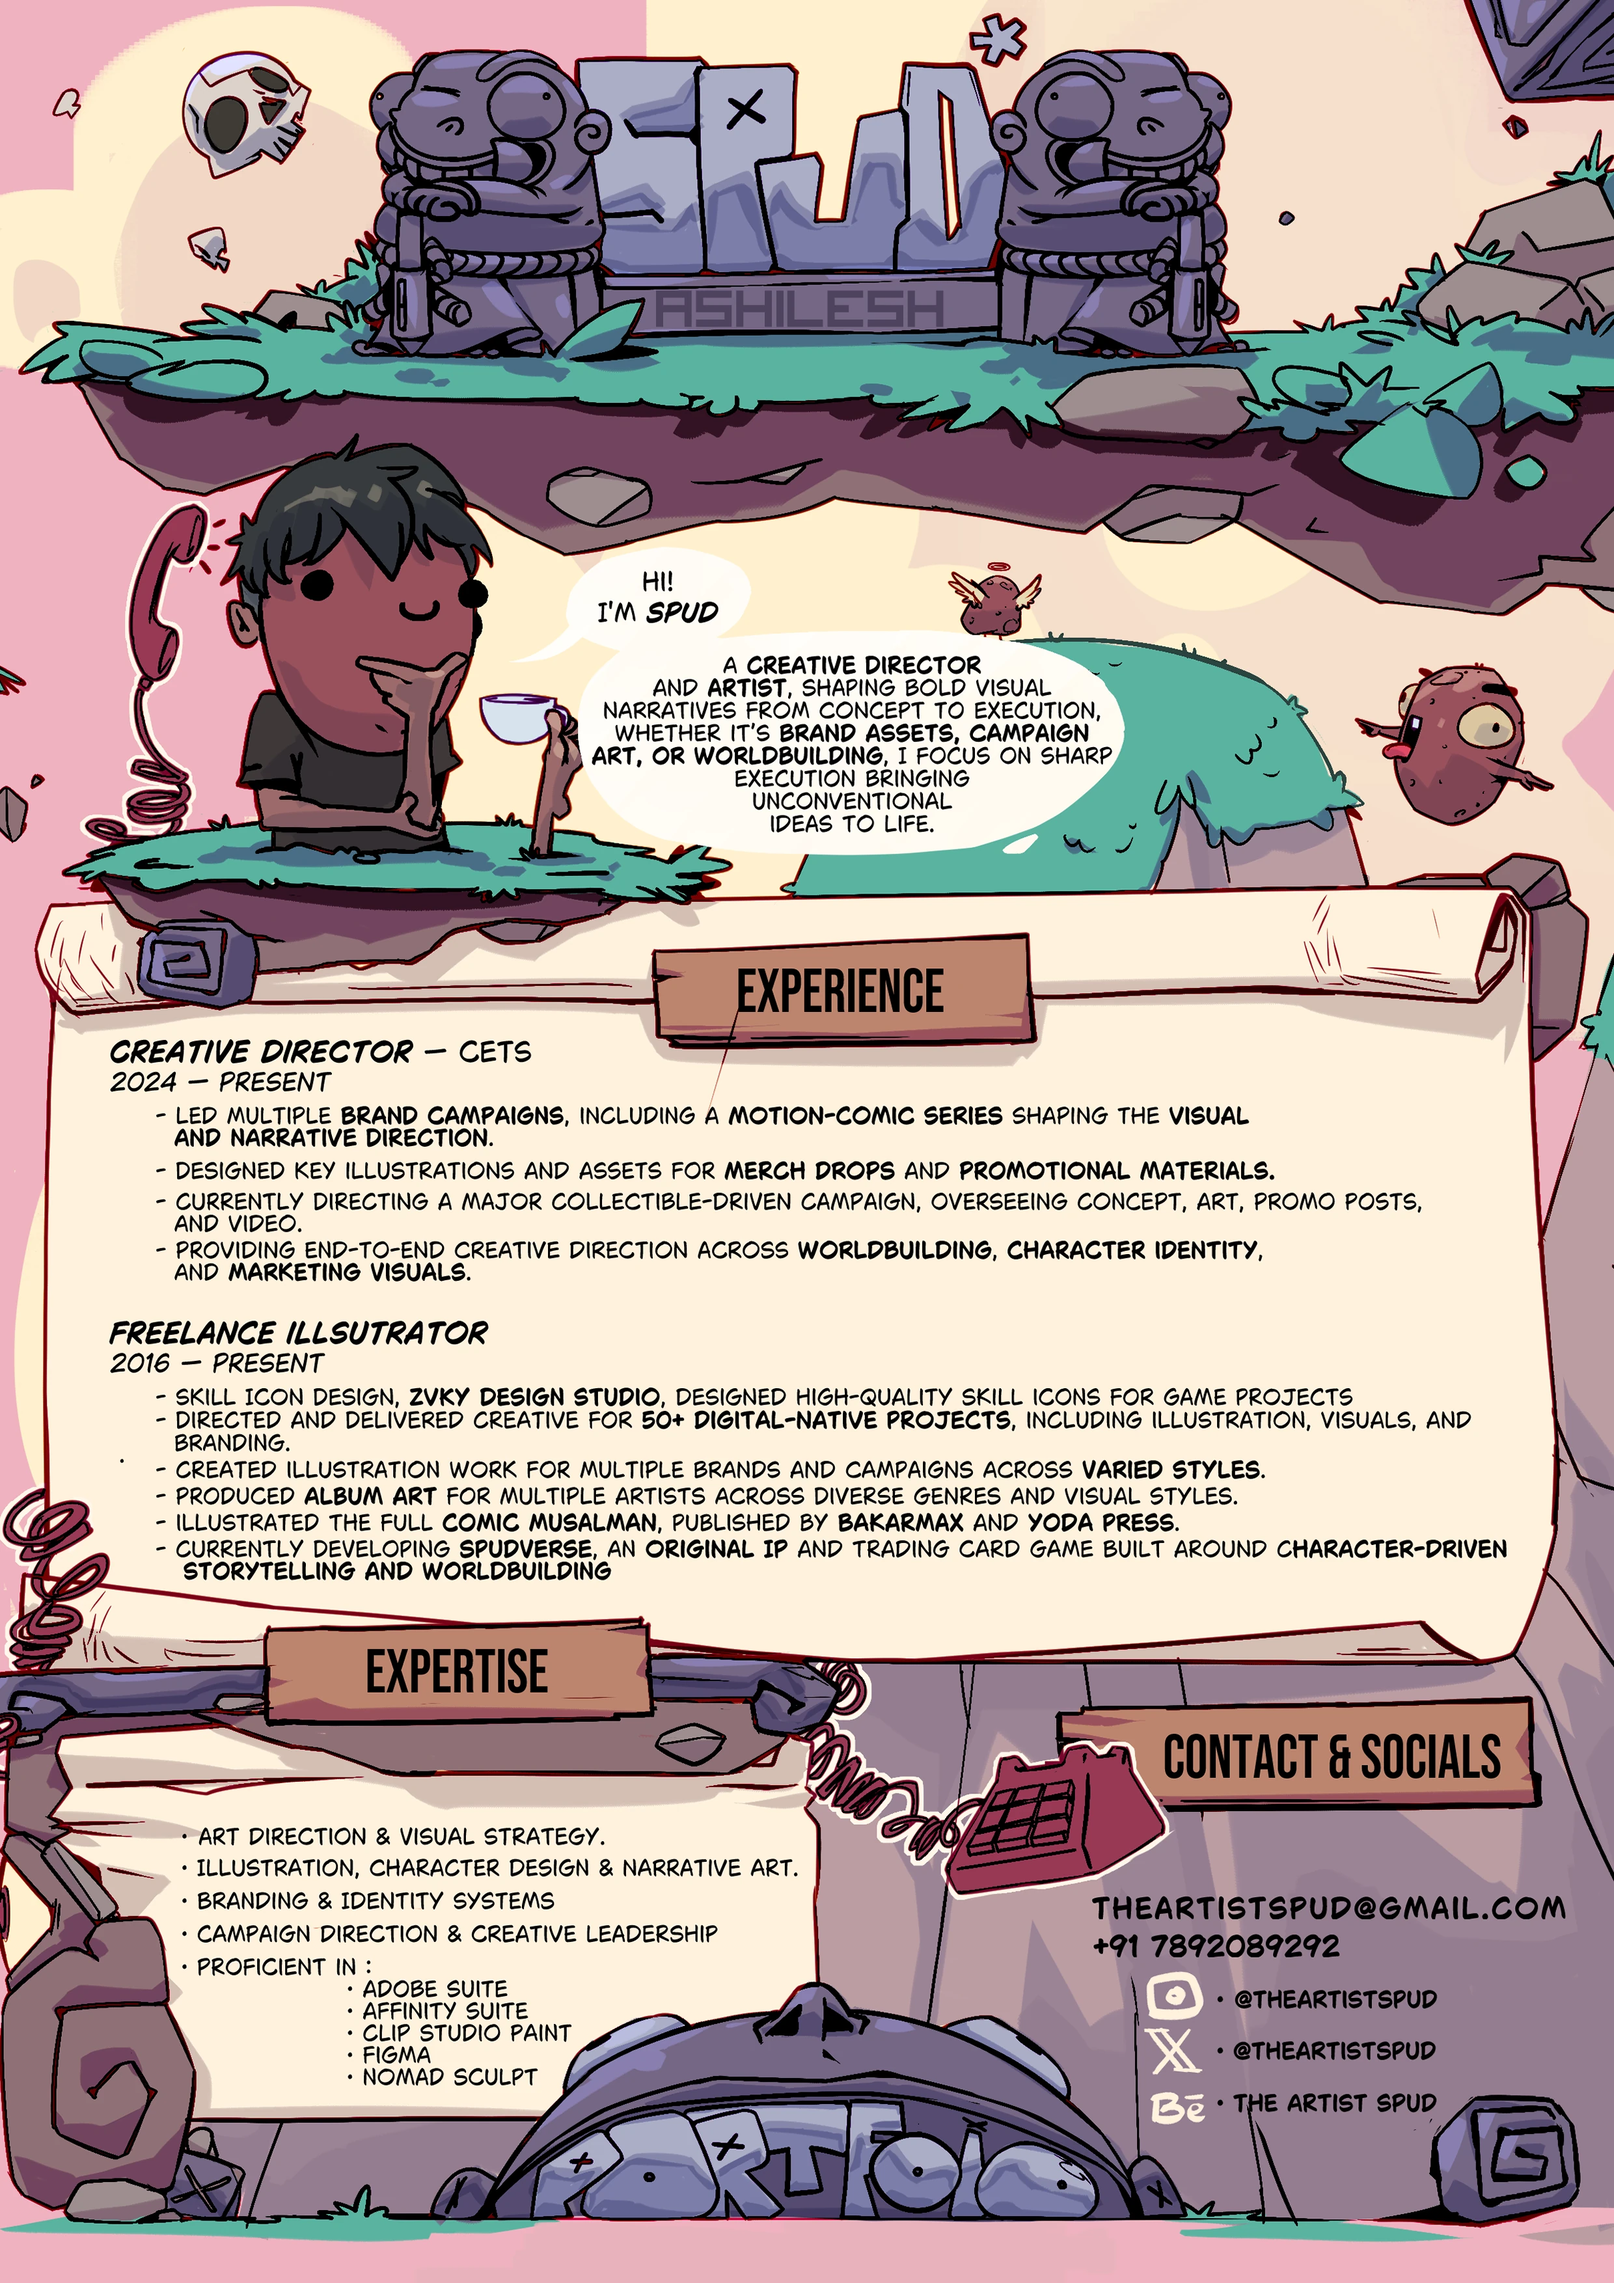
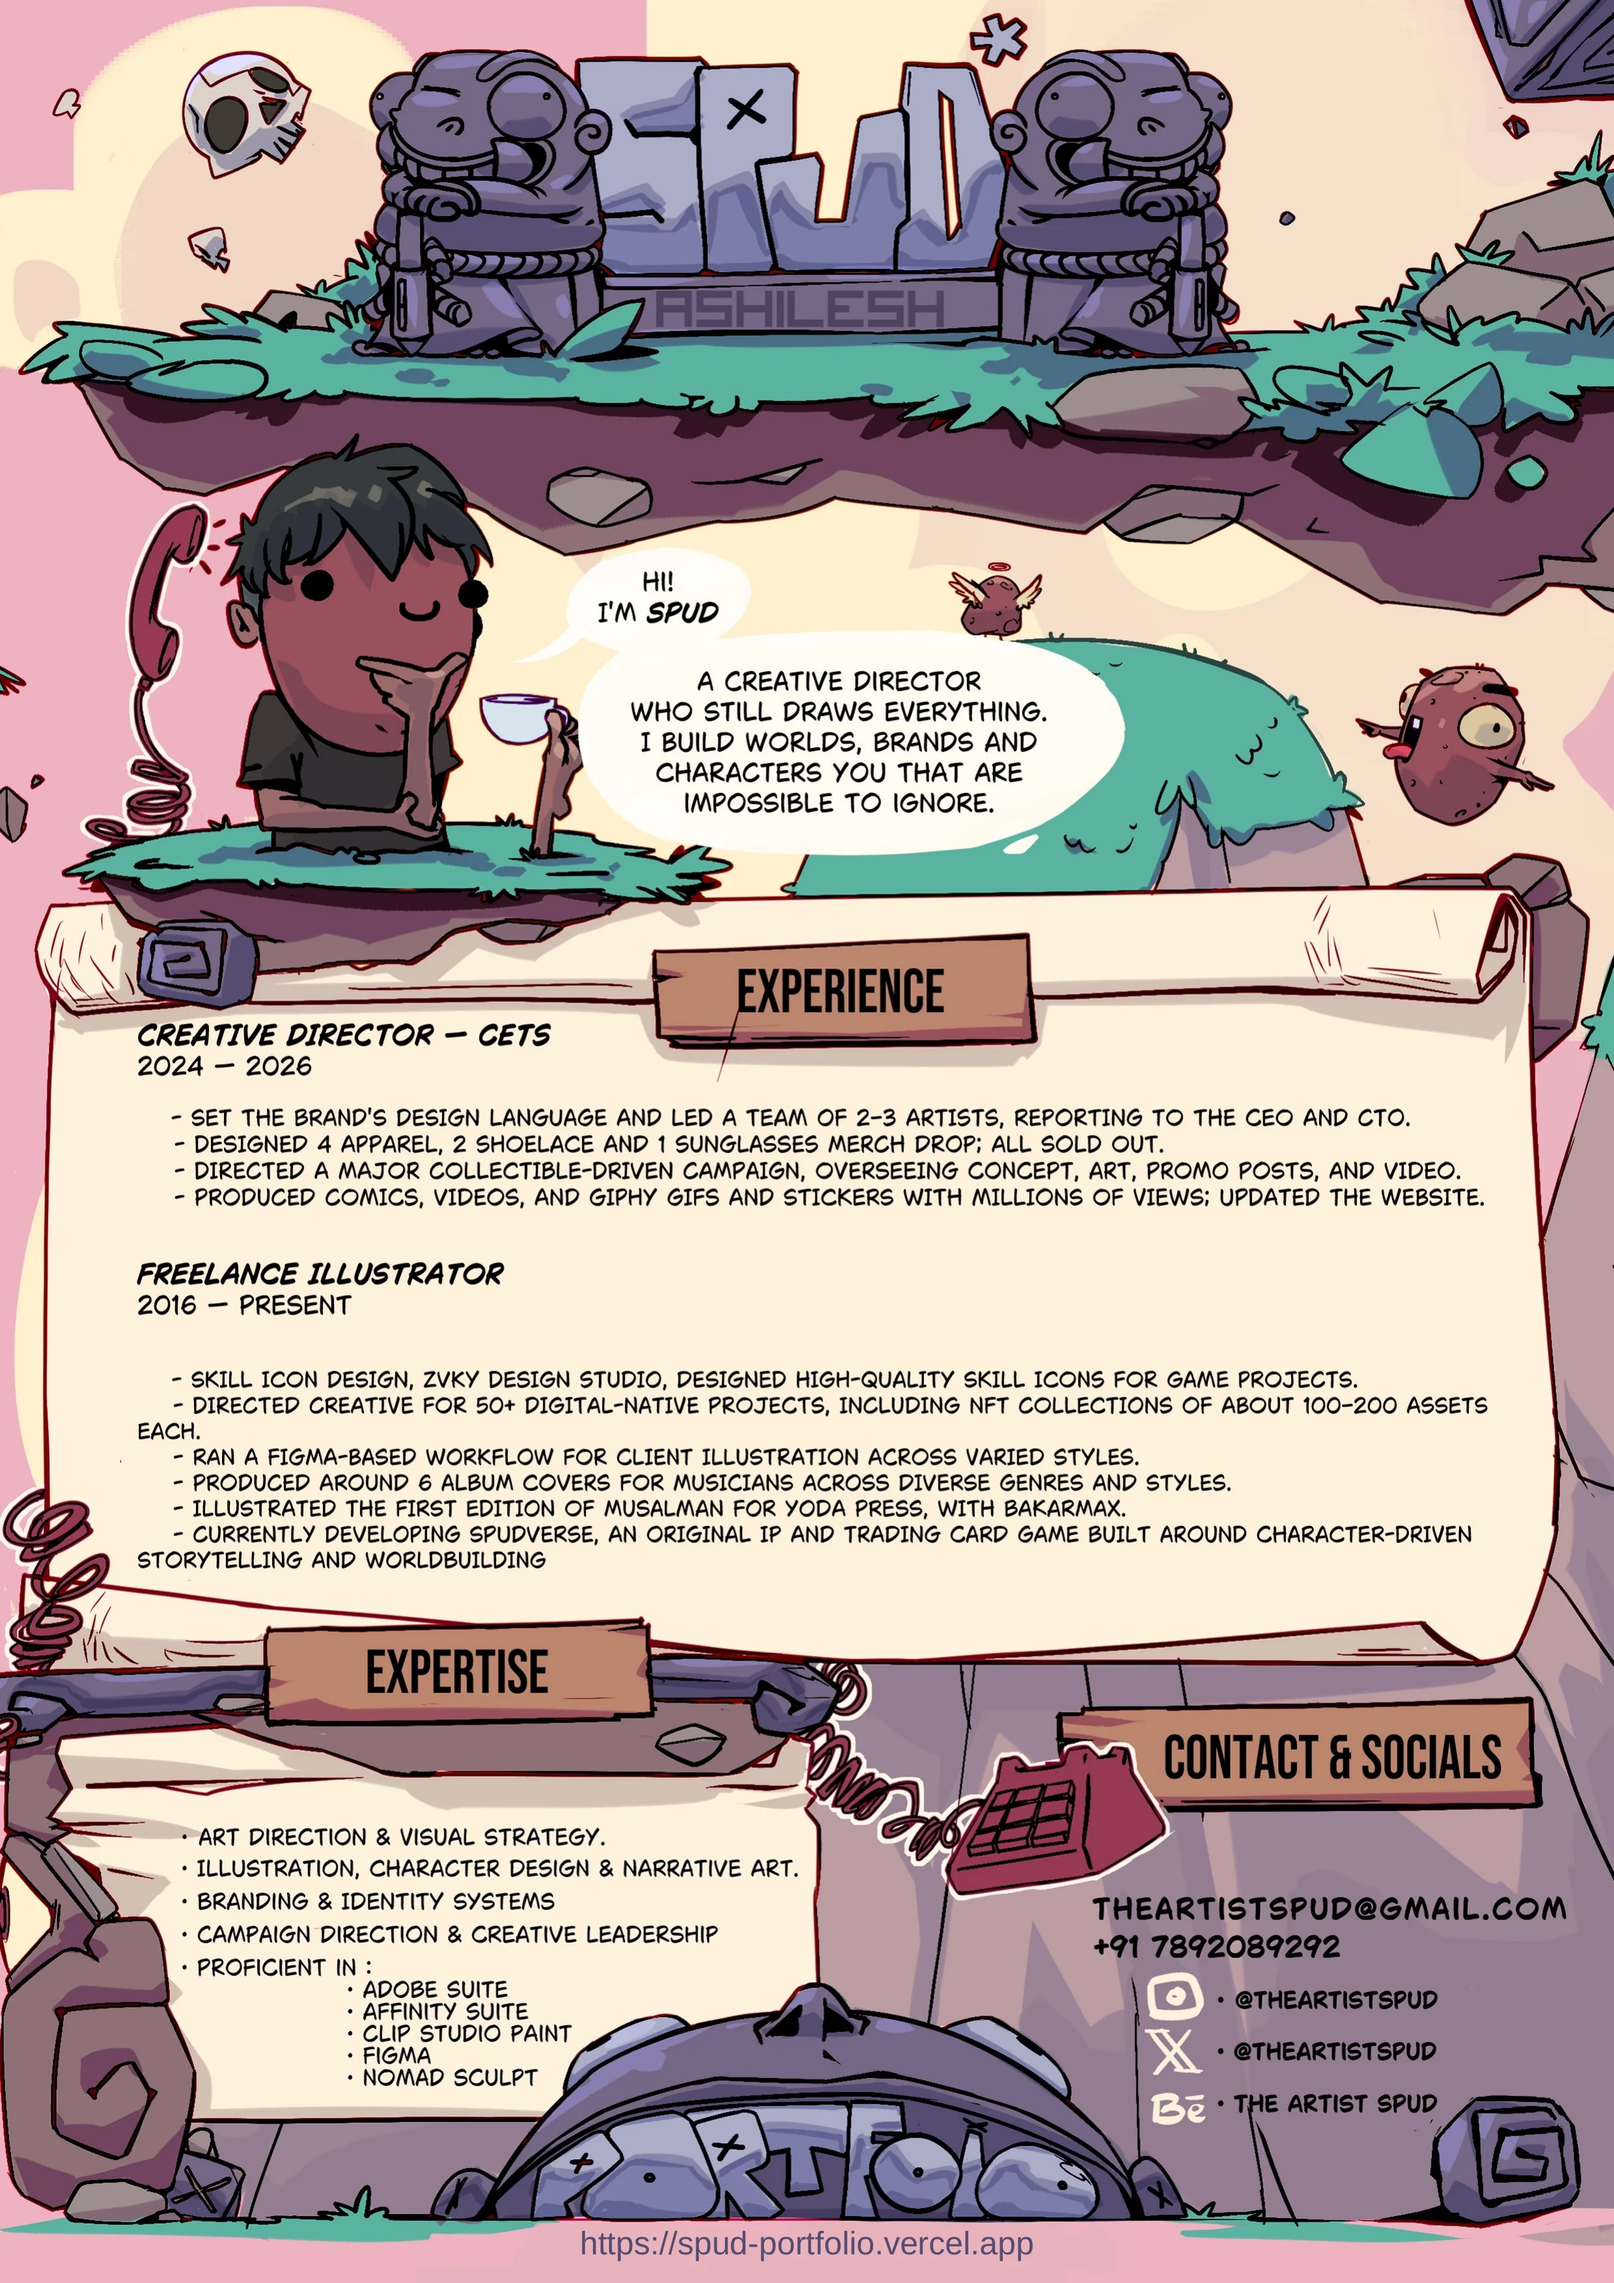
Update resume image (2024–2026, new copy, portfolio link)
Claude-Session: https://claude.ai/code/session_0128fK8opp4ARsL77rXZpZCp

diff --git a/index.html b/index.html
@@ -384,7 +384,7 @@ svg.draw path.guide { stroke: none; }
       <h2 class="zone-title" style="text-align:center;">ABOUT ME</h2>
       <p class="hello" style="margin:16px 0 14px 14px;">hEllo!<br>I'm Ashilesh aka SPUD!</p>
       <button class="resume" id="resumeBtn" type="button" aria-label="Open resume full size">
-        <img id="resumeImg" src="resume-t.webp" data-hi="resume-full.webp" decoding="async" alt="Spud's illustrated resume: creative director at CETS since 2024, freelance illustrator since 2016, expertise and contact details." draggable="false">
+        <img id="resumeImg" src="resume-t.webp?v=2" data-hi="resume-full.webp?v=2" decoding="async" alt="Spud's illustrated resume: creative director at CETS 2024 to 2026, freelance illustrator since 2016, expertise and contact details." draggable="false">
       </button>
       <p class="tap">tap to read it properly →</p>
     </div>
